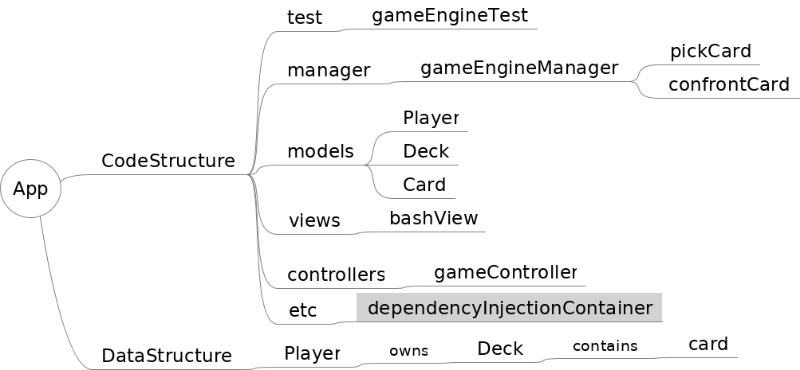
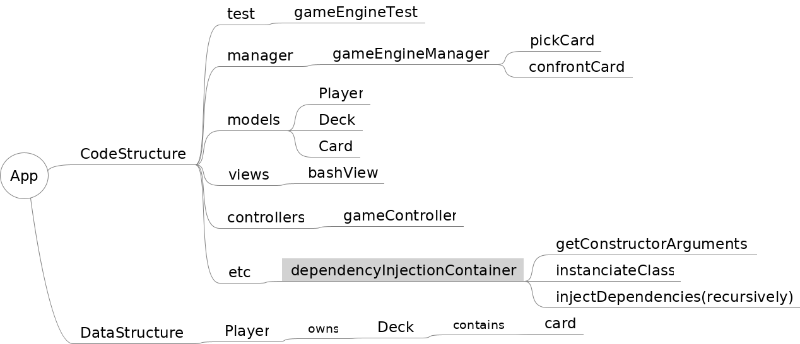
updating mindmap

diff --git a/mindmap.mm b/mindmap.mm
@@ -23,7 +23,11 @@
 <node CREATED="1636465244843" ID="ID_736322785" MODIFIED="1636465254151" TEXT="gameController"/>
 </node>
 <node CREATED="1636470154329" ID="ID_1655605052" MODIFIED="1636470156913" TEXT="etc">
-<node CREATED="1636470156922" ID="ID_1819243374" MODIFIED="1636470172067" TEXT="dependencyInjectionContainer"/>
+<node CREATED="1636470156922" ID="ID_1819243374" MODIFIED="1636470172067" TEXT="dependencyInjectionContainer">
+<node CREATED="1636470676572" ID="ID_872695754" MODIFIED="1636470734581" TEXT="getConstructorArguments"/>
+<node CREATED="1636470778103" ID="ID_475440307" MODIFIED="1636470841573" TEXT="instanciateClass"/>
+<node CREATED="1636470843452" ID="ID_7227818" MODIFIED="1636470878462" TEXT="injectDependencies(recursively)"/>
+</node>
 </node>
 </node>
 <node CREATED="1636465667291" ID="ID_1081250238" MODIFIED="1636465671809" POSITION="right" TEXT="DataStructure">
